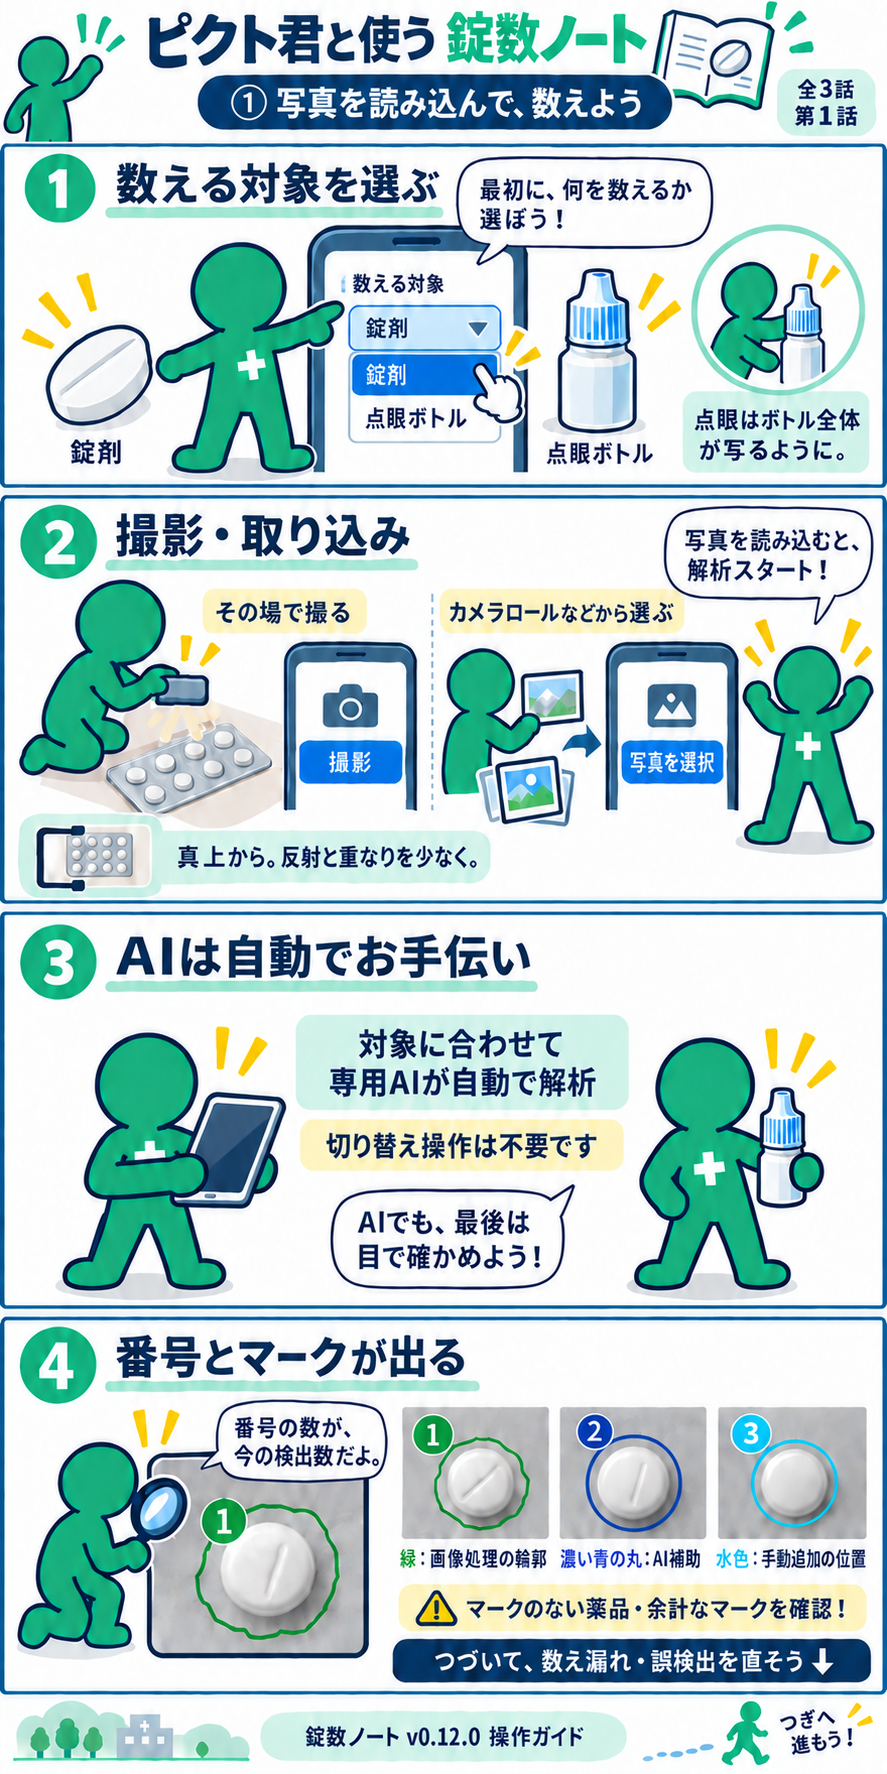
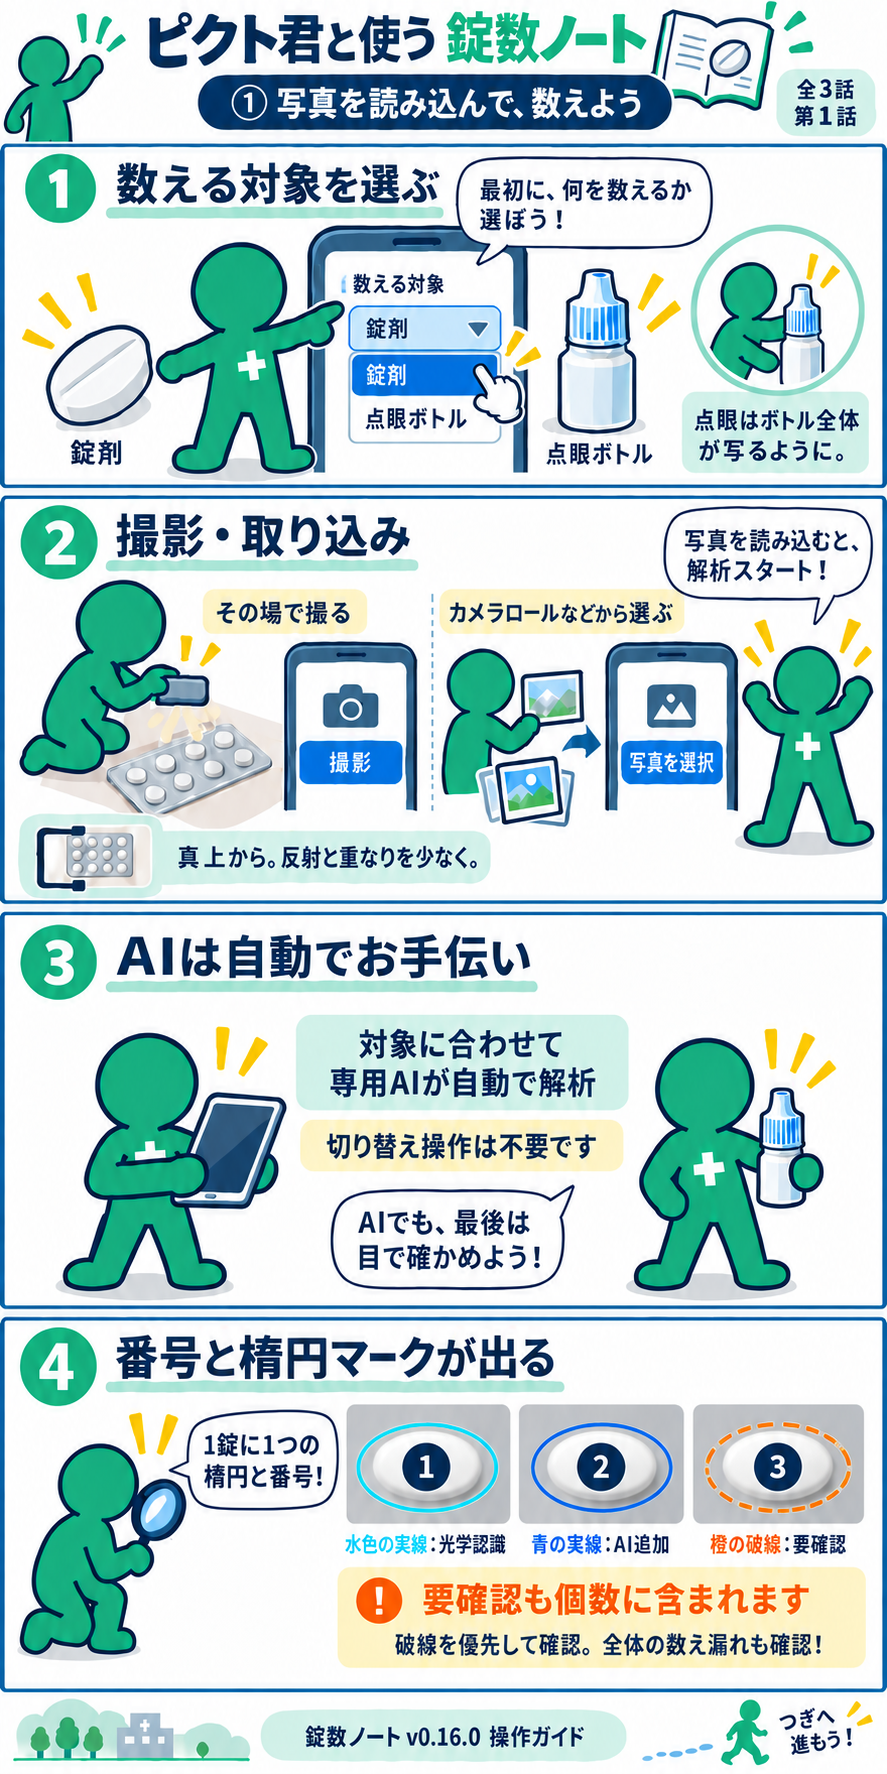
docs: update Pictokun comic for v0.16 ellipse markers and pinch UI

diff --git a/public/guide/index.html b/public/guide/index.html
@@ -11,10 +11,10 @@
 <body>
 <header><h1>ピクト君と使う 錠数ノート</h1><nav aria-label="各章へ移動"><a href="#count">① 撮影・検出</a><a href="#edit">② 編集・拡大</a><a href="#save">③ 確認・保存</a></nav></header>
 <main>
-<figure id="count"><img src="01-count.png" alt="第1章。錠剤・点眼ボトルを選び、撮影または写真を選択。錠剤・点眼それぞれの専用AIが自動で検出を補助。点眼AIは少数写真で学習した試作。緑の輪郭は画像処理、濃い青の丸はAI補助、水色は手動追加。最後は目で確認。"><figcaption><a href="01-count.png" download>第1章の画像を保存</a></figcaption></figure>
-<figure id="edit"><img src="02-edit.png" loading="lazy" alt="第2章。選択中は検出画像を2本指で拡大・縮小、拡大後は1本指で移動。追加・削除へ切り替えて同じ位置で編集できます。元に戻す、やり直す、補正を全リセット。拡大バーと全体を表示でも調整できます。"><figcaption><a href="02-edit.png" download>第2章の画像を保存</a></figcaption></figure>
-<figure id="save"><img src="03-save.png" loading="lazy" alt="第3章。余分な番号を削除し、数え漏れを追加して、そのまま保存。結果画像を保存すると番号と編集結果、右下の個数入りPNGを保存できる。補正は今の写真だけに反映。次の写真もAIで検出し、番号を確認します。"><figcaption><a href="03-save.png" download>第3章の画像を保存</a></figcaption></figure>
+<figure id="count"><img src="01-count.png" alt="第1章。錠剤・点眼ボトルを選び、撮影または写真を選択。錠剤・点眼それぞれの専用AIが自動で検出を補助。点眼AIは少数写真で学習した試作。錠剤は1錠に1つの楕円と中心の番号。水色の実線は光学認識、青の実線はAI追加、橙の破線は要確認。要確認も個数に含まれます。全体の数え漏れも目で確認。"><figcaption><p>錠剤の楕円マーク：水色の実線＝光学認識／青の実線＝AI追加／橙の破線＝要確認。要確認も個数に含まれます。</p><a href="01-count.png" download>第1章の画像を保存</a></figcaption></figure>
+<figure id="edit"><img src="02-edit.png" loading="lazy" alt="第2章。「拡大・縮小」中は検出画像を2本指で拡大・縮小、拡大後は1本指で移動。番号のタップで選択もできます。追加・削除へ切り替えると、倍率と表示位置を保って編集できます。追加・削除中はピンチ操作できません。元に戻す、やり直す、補正を全リセット。拡大バーと全体を表示でも調整できます。"><figcaption><p>「拡大・縮小」で2本指のピンチ操作。拡大後は1本指で移動し、「追加」「削除」に切り替えて補正できます。</p><a href="02-edit.png" download>第2章の画像を保存</a></figcaption></figure>
+<figure id="save"><img src="03-save.png" loading="lazy" alt="第3章。橙の破線を優先して確認し、実物と画像全体を見比べます。要確認も個数に含まれます。余分な番号は削除し、数え漏れは追加。結果画像を保存すると番号と編集結果、右下の個数入りPNGを保存できます。保存方法は端末・ブラウザーによります。補正は今の写真だけに反映。次の写真も番号を確認します。"><figcaption><p>破線だけでなく、番号の重複・余分な番号・数え漏れを全体で確認してから「結果画像を保存」。</p><a href="03-save.png" download>第3章の画像を保存</a></figcaption></figure>
 </main>
-<footer><p>錠数ノート v0.15.0 の仕様を確認した操作ガイドです。画面図は説明用に簡略化しています。</p><a href="#">先頭に戻る ↑</a></footer>
+<footer><p>錠数ノート v0.16.0 対応の操作ガイドです。画面図は説明用に簡略化しています。</p><a href="#">先頭に戻る ↑</a></footer>
 </body>
 </html>

diff --git a/public/guide/PROVENANCE.md b/public/guide/PROVENANCE.md
@@ -20,3 +20,8 @@ Create one app mascot illustration matching the green faceless pictogram people 
 
 ### v0.15.0 直接ピンチ編集
 02-edit.png was edited with built-in ImageGen and visually inspected. Prompt: preserve page 2/3, green medical pictogram mascot and navy/mint palette; replace range controls and separate zoom view with four panels: basic select/add/delete; pinch and pan only in select mode; undo/redo/reset; edit while keeping zoom and position, zoom slider and fit image. Footer: 確認できたら、保存へ and v0.15.0. Remove all learning references.
+
+## v0.16.0 漫画のUI追従
+
+3ページとも既存画像を編集対象としてbuilt-in ImageGenで更新し、出力を目視確認。第1章は基準楕円と水色実線・青実線・橙破線の意味、要確認も個数に含む説明へ変更。第2章は旧ボタン名を「拡大・縮小」へ統一し、そのモードでのみピンチ操作できる説明を維持。第3章は破線と全体の確認、端末に応じた保存操作を説明。全ページの版表記はv0.16.0。マスコット・配色・章構成は保持し、認識や操作のコードは変更していない。
+
